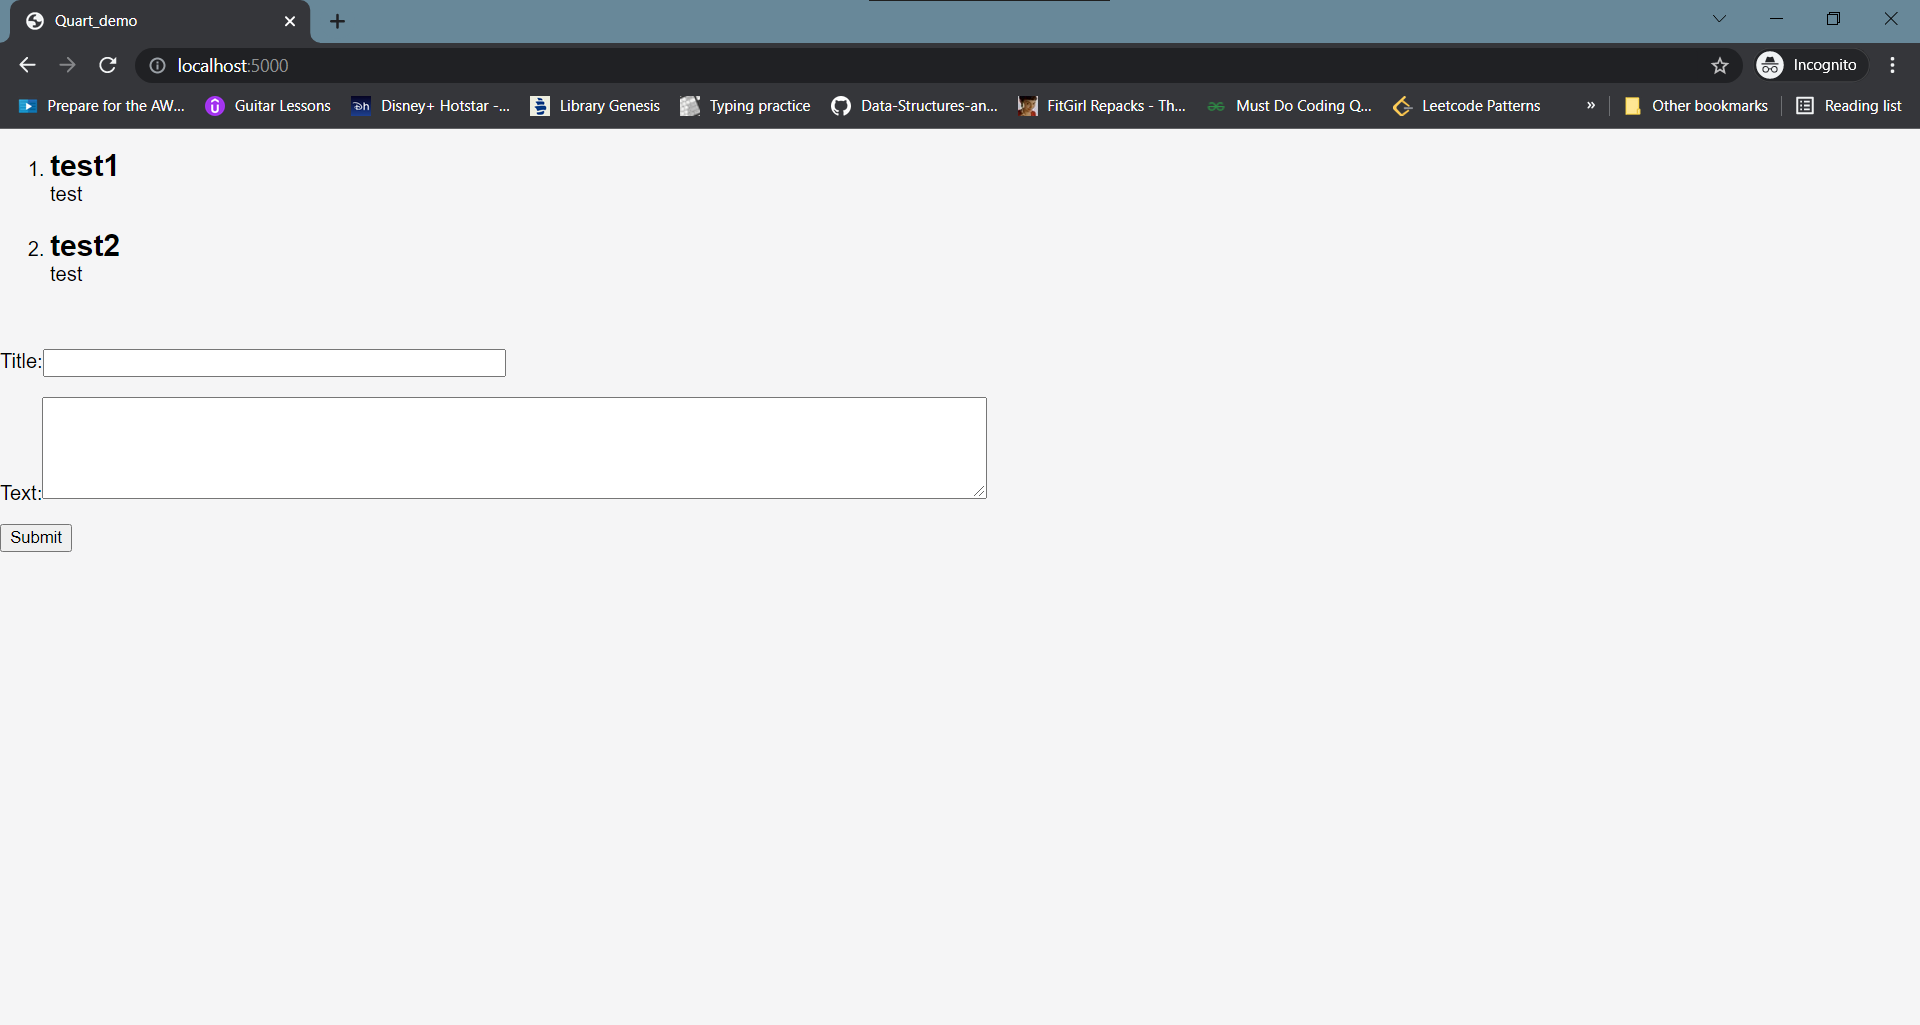
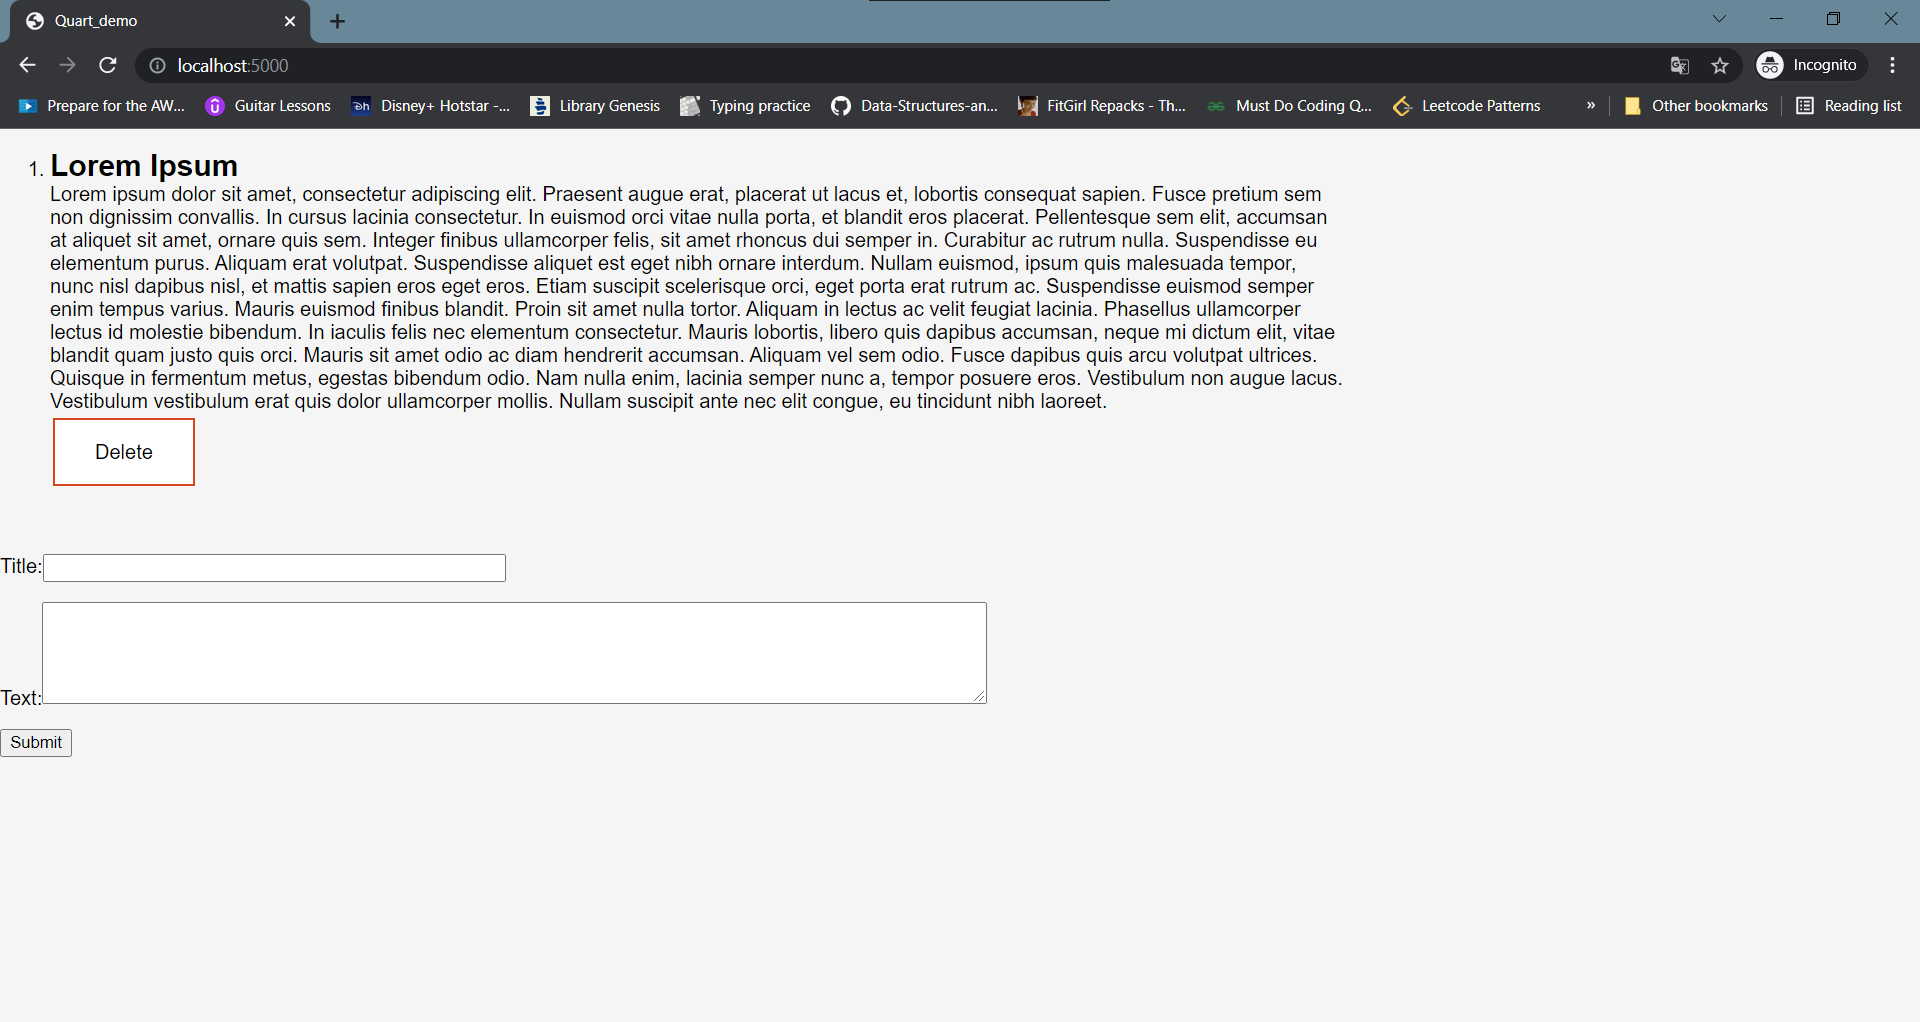
DELETE

diff --git a/static/notes.css b/static/notes.css
@@ -12,6 +12,41 @@ h2 {
     border-color: black;
 }
 
+.button {
+    border: none;
+    color: white;
+    padding: 16px 32px;
+    text-align: center;
+    text-decoration: none;
+    display: inline-block;
+    font-size: 16px;
+    margin: 4px 2px;
+    transition-duration: 0.4s;
+    cursor: pointer;
+}
+  
+.button1 {
+    background-color: white;
+    color: black;
+    border: 2px solid #d6431e;
+}
+  
+.button1:hover {
+    background-color: #be2e2e;
+    color: white;
+}
+  
+.button2 {
+    background-color: white;
+    color: black;
+    border: 2px solid #008CBA;
+}
+  
+.button2:hover {
+    background-color: #008CBA;
+    color: white;
+}
+
 .notes {
     display: inline-block;
     text-align: left; 

diff --git a/templates/notes_home.html b/templates/notes_home.html
@@ -5,7 +5,12 @@
   <div class="notes">
     <ol>
   {% for note in notes %}
-    <div><li><h2>{{ note.title }}</h2>{{ note.text|safe }}</li></div>
+    <div><li><h2>{{ note.title }}</h2>{{ note.text }}
+      <form action="{{ url_for('delete') }}" method="POST" class="delete-note">
+      <button id='submit' class="button button1" type='submit' name = 'note_id'    value = "{{ note.id }}">Delete</button>
+      </form>
+    </li>
+  </div>
     <br>
   {% else %}
     <div>No notes available</div>

diff --git a/notes.py b/notes.py
@@ -14,22 +14,33 @@ app.config.update({
 @app.route('/', methods=['GET'])
 async def notes():
     db = get_db()
-    cur = db.execute('SELECT title, text FROM note')
+    cur = db.execute('SELECT id, title, text FROM note')
     notes = cur.fetchall()
     return await render_template('notes_home.html', notes=notes)
 
+@app.route('/delete/', methods=['POST'])
+async def delete():
+    db = get_db()
+    form = await request.form
+    print("delete",form)
+    db.execute(
+        "DELETE FROM note WHERE id= ? ",
+        [form['note_id']],
+    )
+    db.commit()
+    return redirect(url_for('notes'))
 
-@app.route('/', methods=['POST'])
+@app.route('/create/', methods=['POST'])
 async def create():
     db = get_db()
     form = await request.form
+    print("create",form)
     db.execute(
         "INSERT INTO note (title, text) VALUES (?, ?)",
         [form['title'], form['text']],
     )
     db.commit()
     return redirect(url_for('notes'))
-
 
 def connect_db():
     engine = sqlite3.connect(app.config['DATABASE'])
